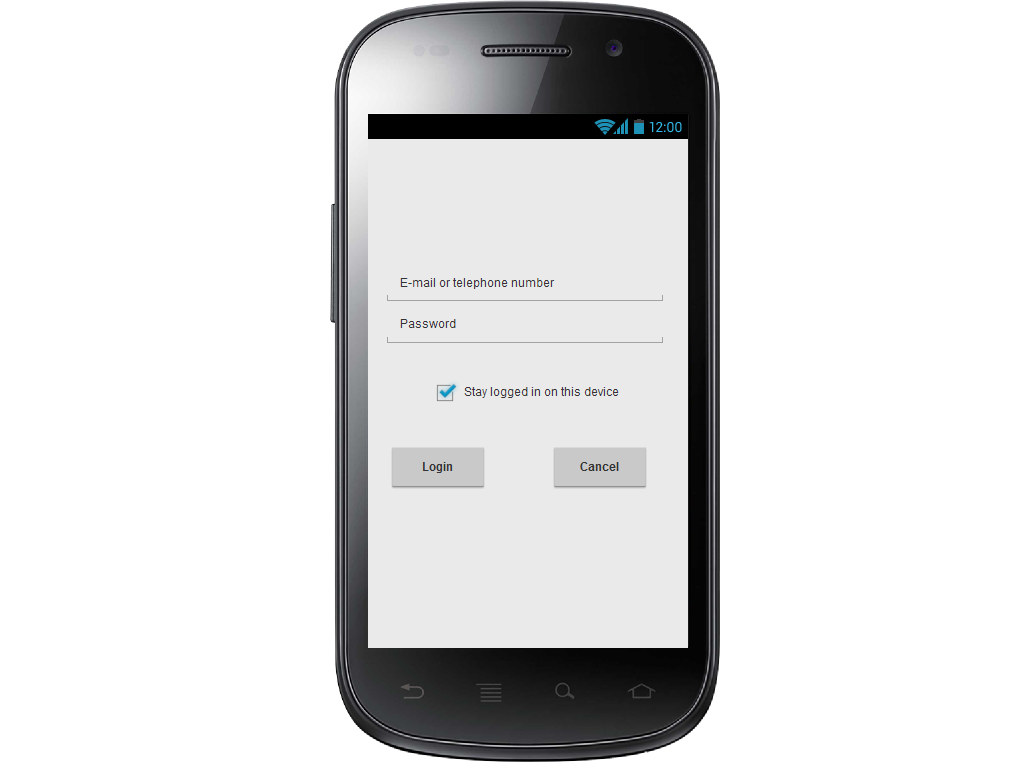
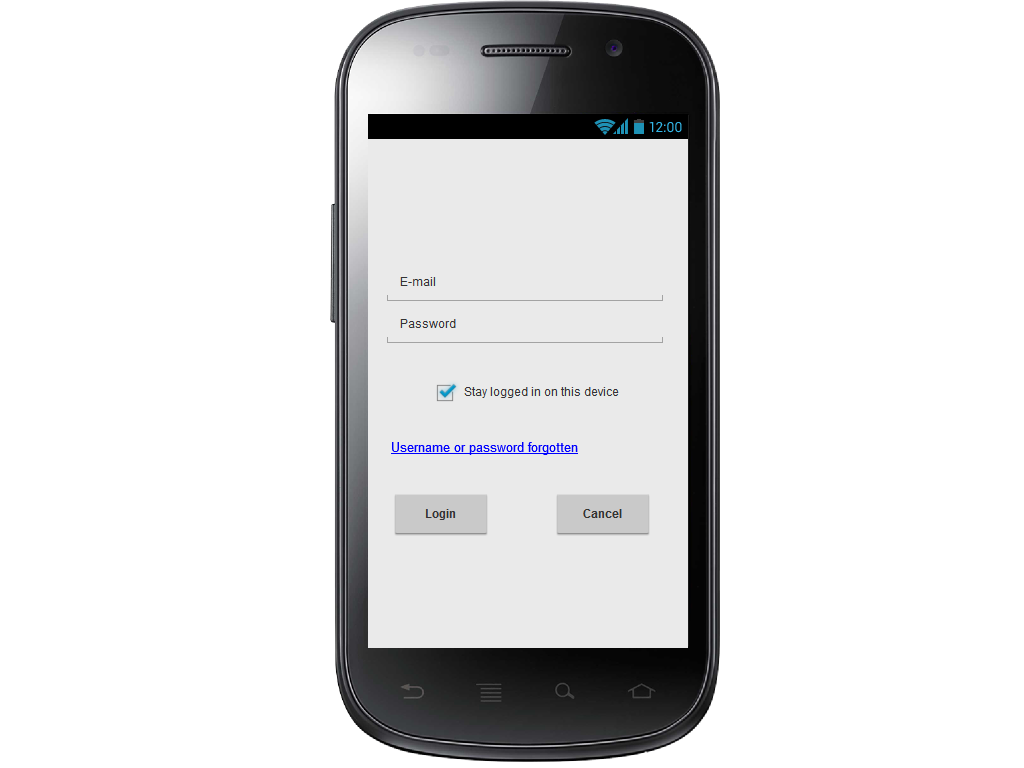
Design interfaccia definitivo

Changed region(s): [[0.375, 0.5625, 0.6562, 0.7188], [0.4062, 0.3438, 0.5312, 0.375]]

diff --git a/Sources/DD/ux_design.tex b/Sources/DD/ux_design.tex
@@ -28,7 +28,7 @@ From this browser page users can go to homepage and other important pages.
 \end{figure}
 \break
 \subsection{Login}
-From this page registered users can log in inserting either the registration email or username and the password chosen during registration. \newline If an user forgets his/her password, username or email, it's possible to recover them: a message on the mobile phone or an email is sent to him/her. \newline Also from this browser page users can go to homepage and other important pages.
+From this page registered users can log in inserting either the registration email or username and the password chosen during registration. \newline If an user forgets his/her password, username or email, it's possible to recover them: a message on the mobile phone or an email is sent to him/her. \newline Also from this browser page users can go to homepage and other important pages. 
 \begin{figure}[H]
 \centering
 \includegraphics[scale=0.35]{mockups/login_web.png}
@@ -38,6 +38,19 @@ From this page registered users can log in inserting either the registration ema
 \centering
 \includegraphics[scale=0.35]{mockups/login_mobile.png}
 \caption{Login Mobile Version}
+\end{figure}
+\break
+\subsection{Recovery Password}
+In the web version, registered users can recover their username, password and registration e-mail inserting following information. A SMS will send to the user who uses the recovery procedure containing all information necessary to log in. \newline On the contrary in mobile version, the recovery SMS is sent to the smartphone where the application is installed. \newline For the administrator it's not possible to use revorey procedure. \newline From this browser page users can go to homepage and other important pages.  
+\begin{figure}[H]
+\centering
+\includegraphics[scale=0.35]{mockups/recovery_login_page_web.png}
+\caption{Recovery Web Version}
+\end{figure}
+\begin{figure}[H]
+\centering
+\includegraphics[scale=0.35]{mockups/recovery_login_mobile.png}
+\caption{Recovery Mobile Version}
 \end{figure}
 \break
 \subsection{Request}
@@ -79,3 +92,10 @@ This page is accessible only to registered taxi drivers, here they can manage in
 \caption{Driver Interface Mobile Version}
 \end{figure}
 \break
+\subsection{Administrator}
+This page is accessible only to the administrator. It's possible to add taci drivers inserting name, surname, taxi driver license and cab numbers. Taxi driver ID can be used only to search taxi drivers in DB to modify their information or to delete them from records. \newline Hyperlinks work exactly like in other cases, but to use web and mobile functions it's necessary to log in as passengers or taxi driver.
+\begin{figure}[H]
+\centering
+\includegraphics[scale=0.35]{mockups/administrator.png}
+\caption{Administrator Web Page}
+\end{figure}
